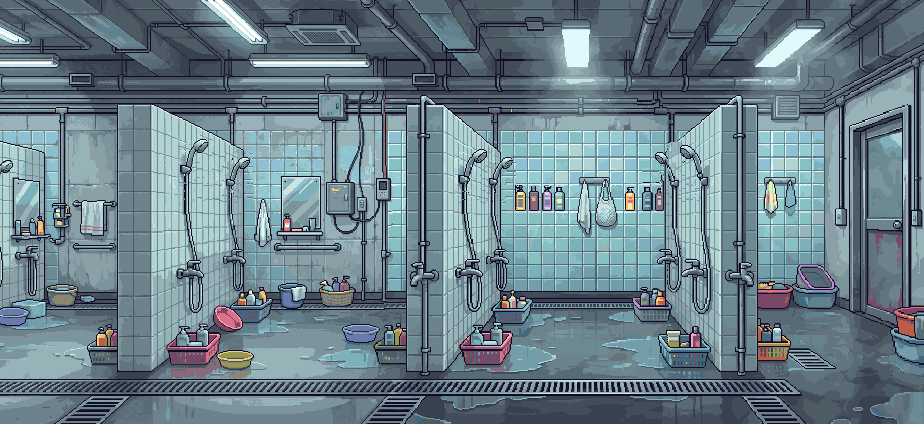
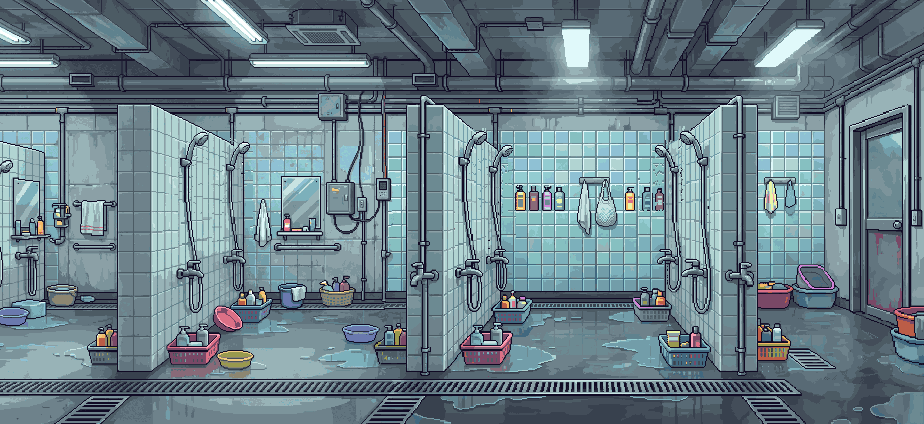
샤워기 헤드+받침 20px 위로(벽 윗선 위로 넘어가도 됨), 받침 아래 호스만 늘임, 벽 모서리선 되살림 (사용자 15:59)
Claude-Session: https://claude.ai/code/session_01MHVZo2uTN5ATbUsDquGubm

Changed region(s): [[0.4848, 0.3066, 0.5758, 0.5825], [0.697, 0.3066, 0.7879, 0.5825], [0.1818, 0.3066, 0.2727, 0.5825]]

diff --git a/tools/bg_fix/bath_f_raise_heads.py b/tools/bg_fix/bath_f_raise_heads.py
@@ -12,8 +12,10 @@ img = np.asarray(Image.open(src).convert('RGBA')).copy()
 L = img[..., :3].astype(int).mean(2)
 H, W = L.shape
 # 칸 (x0, y0, x1, y1): 꼭지·받침·곧은 호스 윗부분, 맨 아래 줄은 호스를 자르는 자리
-BOX = {2: (178, 148, 212, 206), 3: (222, 158, 253, 206), 4: (455, 148, 490, 206), 5: (486, 163, 516, 208),
-       6: (642, 163, 672, 208), 7: (668, 148, 701, 206)}
+# 사용자 15:59 「받침을 기준으로 받침까지 올리고 밑에 끈(호스)을 늘리고」: (x0, y0, x1, yl, yk) — yk 받침 밑, yl 수도꼭지 위(호스 끝)
+FX = {2: (178, 148, 212, 255, 187), 3: (222, 158, 253, 245, 192), 4: (455, 148, 490, 254, 186), 5: (486, 163, 516, 245, 193),
+      6: (638, 160, 683, 244, 193), 7: (678, 146, 711, 254, 186)}
+BOX = {n: (a, b, c, d) for n, (a, b, c, d, e) in FX.items()}
 TOP = [((150, 105), (243, 150)), ((440, 105), (500, 152)), ((655, 149), (712, 105))]  # 칸막이 벽 윗선
 def wall_top(x):
     for (ax, ay), (bx, by) in TOP:
@@ -35,8 +37,8 @@ def mask_of(x0, y0, x1, y1):
             if 0 <= yy < h and 0 <= xx < w and not reach[yy, xx] and not dark[yy, xx]: st.append((yy, xx))
     return ~reach
 FIX = np.zeros((H, W), bool)
-for n, (x0, y0, x1, y1) in BOX.items(): FIX[y0:y1, x0:x1] = True
-KEEP = [(630, 184, 661, 214)]  # 칸 안에 걸친 병(6번 옆) — 건드리지 않음
+for n, (x0, y0, x1, y1) in BOX.items(): FIX[y0:y1 + 45, x0:x1] = True  # 아래 수도꼭지도 배경 출처에서 뺌
+KEEP = [(640, 185, 666, 214)]  # 칸 안에 걸친 병(6번 옆) — 건드리지 않음
 def col_period(x, y0, y1):
     c = L[y0:y1, x]; best, bp = 1e9, 10
     for p in range(8, 16):
@@ -57,26 +59,76 @@ def background(x0, y0, x1, y1):
                         B[y - y0, x - x0] = img[sy, x]; got = True; break
                 if got: break
     return B
-orig = img.copy(); res = {}
+orig = img.copy(); res = {}; PASTED = np.zeros((H, W), bool)
 for n, (x0, y0, x1, y1) in BOX.items():
     B = background(x0, y0, x1, y1)
     d = np.abs(orig[y0:y1, x0:x1, :3].astype(int) - B[..., :3].astype(int)).sum(2)
     m0 = d > 45
-    m1 = m0.copy()  # 한 칸 넓혀 테두리 그림자까지
-    m1[1:] |= m0[:-1]; m1[:-1] |= m0[1:]; m1[:, 1:] |= m0[:, :-1]; m1[:, :-1] |= m0[:, 1:]
+    # 꼭지에 붙은 큰 덩어리만(8방향 연결, 120px 이상) + 구멍 채우기
+    h_, w_ = m0.shape; lab = np.zeros(m0.shape, bool); keep = np.zeros(m0.shape, bool)
+    for sy0 in range(h_):
+        for sx0 in range(w_):
+            if m0[sy0, sx0] and not lab[sy0, sx0]:
+                st = [(sy0, sx0)]; lab[sy0, sx0] = True; pts = []
+                while st:
+                    y, x = st.pop(); pts.append((y, x))
+                    for yy in (y - 1, y, y + 1):
+                        for xx in (x - 1, x, x + 1):
+                            if 0 <= yy < h_ and 0 <= xx < w_ and m0[yy, xx] and not lab[yy, xx]: lab[yy, xx] = True; st.append((yy, xx))
+                if len(pts) >= 120:
+                    for y, x in pts: keep[y, x] = True
+    out_ = np.zeros(keep.shape, bool); st = [(y, x) for y in range(h_) for x in (0, w_ - 1)] + [(0, x) for x in range(w_)]
+    while st:
+        y, x = st.pop()
+        if out_[y, x] or keep[y, x]: continue
+        out_[y, x] = True
+        for yy, xx in ((y + 1, x), (y - 1, x), (y, x + 1), (y, x - 1)):
+            if 0 <= yy < h_ and 0 <= xx < w_: st.append((yy, xx))
+    core = ~out_
+    ring = core.copy(); ring[1:] |= core[:-1]; ring[:-1] |= core[1:]; ring[:, 1:] |= core[:, :-1]; ring[:, :-1] |= core[:, 1:]
+    ring &= ~core
+    # 테두리 한 줄은 어두운 윤곽(밝기<90)만 물건으로 — 밝은 타일·줄눈은 옮기지 않음(얼룩 원인)
+    m1 = core | (ring & (L[y0:y1, x0:x1] < 90))
+    # 2차 배경: 물건(넓힌 마스크)이 아닌 같은 세로줄 픽셀을 주기 배수만큼 가장 가까운 데서 — 칸 안 깨끗한 타일 우선, 바닥·수도꼭지(yl+3 아래)는 안 씀
+    bad = m1.copy()
+    for _ in range(2):
+        t_ = bad.copy(); t_[1:] |= bad[:-1]; t_[:-1] |= bad[1:]; t_[:, 1:] |= bad[:, :-1]; t_[:, :-1] |= bad[:, 1:]; bad = t_
+    BAD = np.zeros((H, W), bool); BAD[y0:y1, x0:x1] = bad
+    B = orig[y0:y1, x0:x1].copy()
+    for x in range(x0, x1):
+        p_ = col_period(x, y0 - 30, y1)
+        t = wall_top(x)
+        for y in range(y0, y1):
+            for k in range(1, 15):
+                ok = False
+                for sy in (y + k * p_, y - k * p_):
+                    if sy < 0 or sy >= y1 + 3 or BAD[sy, x]: continue
+                    if t is not None and sy <= t + 2: continue
+                    B[y - y0, x - x0] = orig[sy, x]; ok = True; break
+                if ok: break
     m = np.zeros((H, W), bool); m[y0:y1, x0:x1] = m1
     for a, b, c, e in KEEP: m[b:e, a:c] = False
     ys, xs = np.nonzero(m)
-    dy = MAXDY
+    dy = MAXDY; res[n] = dy  # 받침이 벽에 붙어 있으니 헤드는 벽 윗선 위로 넘어가도 됨 (사용자 15:59) — 모두 같은 높이
+    yk = FX[n][4]; yl = y1
+    me = m.copy()  # 지울 땐 두 칸 더 넓혀 옛 헤드 가장자리 찌꺼기까지
+    for _ in range(2):
+        t_ = me.copy(); t_[1:] |= me[:-1]; t_[:-1] |= me[1:]; t_[:, 1:] |= me[:, :-1]; t_[:, :-1] |= me[:, 1:]; me = t_
+    me[:, :x0] = False; me[:, x1:] = False; me[:y0] = False; me[y1:] = False
+    for a, b, c, e in KEEP: me[b:e, a:c] = False
+    for y, x in zip(*np.nonzero(me)): img[y, x] = B[y - y0, x - x0]
     for y, x in zip(ys, xs):
-        t = wall_top(x)
-        if t is not None and y < y0 + 30: dy = min(dy, int(y - t) - 3)
-    dy = max(0, dy); res[n] = dy
-    for y, x in zip(ys, xs): img[y, x] = B[y - y0, x - x0]
-    for y, x in zip(ys, xs): img[y - dy, x] = orig[y, x]
-    yb = y1 - 1
-    for x in range(x0, x1):
-        if m[yb, x]:
-            for y in range(yb - dy, yb + 1): img[y, x] = orig[yb, x]
+        if y < yk: img[y - dy, x] = orig[y, x]; PASTED[y - dy, x] = True        # 헤드·받침: 통째로 위로
+    Lh = yl - yk
+    for y in range(yk - dy, yl):                       # 호스: 받침 밑~수도꼭지 위를 세로로 늘임
+        sy = int(round(yl - (yl - y) * Lh / (Lh + dy)))
+        sy = min(max(sy, yk), yl - 1)
+        for x in range(x0, x1):
+            if m[sy, x]: img[y, x] = orig[sy, x]; PASTED[y, x] = True
+# 칸막이 벽 세로 모서리선(벽 A x243, B x500, C x650·651)은 옛 헤드가 가리던 줄을 같은 세로줄 깨끗한 줄(y220)로 되살림
+for xe, ytop in ((243, 150), (500, 152), (650, 149), (651, 149)):
+    for y in range(ytop, 250):
+        if not PASTED[y, xe] and any(b[0] <= xe < b[2] and b[1] <= y < b[3] for b in BOX.values()):
+            img[y, xe] = orig[220, xe]
 Image.fromarray(img).save(out)
 print('올린 px(1x):', res)

diff --git a/tools/bg_fix/bath_f_shower_preview.py b/tools/bg_fix/bath_f_shower_preview.py
@@ -5,7 +5,8 @@
 import json
 from PIL import Image
 A = 'game-src/art/pixellab-hq-20261031/'
-bg = Image.open(A + 'hq_bath_f_p5_extL1.png').convert('RGBA')
+import sys as _s
+bg = Image.open(A + (_s.argv[1] if len(_s.argv) > 1 else 'hq_bath_f_p5_extL1.png')).convert('RGBA')
 FOOT = {2: (240, 340, 'W'), 3: (290, 312, 'W'), 4: (528, 338, 'W'), 5: (545, 305, 'W'), 6: (614, 316, 'E'), 7: (640, 348, 'E')}  # 바구니·대야 피해서 벽 면 앞 빈 바닥, 샤워기 쪽을 봄
 CH = {2: '1.2', 3: '1.10', 4: '1.9', 6: '1.1'}  # 스팡달·게슈간·데드폴·쟈알디
 assert '1.12' not in CH.values()
@@ -22,4 +23,4 @@ for n in sorted(CH, key=lambda n: FOOT[n][1]):
     if face == 'W':  # 그림은 모두 오른쪽(동)을 봄(cfg.dir과 무관, 확인 15:5x)
         fr = fr.transpose(Image.FLIP_LEFT_RIGHT); cx = fr.width - cx
     bg.alpha_composite(fr, (fx - cx, fy - round(a['floor'] * k)))
-bg.resize((bg.width * 2, bg.height * 2), Image.NEAREST).save('/mnt/project-files/hq-f3/now/샤워실여_샤워캐릭터_2배.png')
+bg.resize((bg.width * 2, bg.height * 2), Image.NEAREST).save((_s.argv[2] if len(_s.argv) > 2 else '/mnt/project-files/hq-f3/now/샤워실여_샤워캐릭터_2배.png'))
